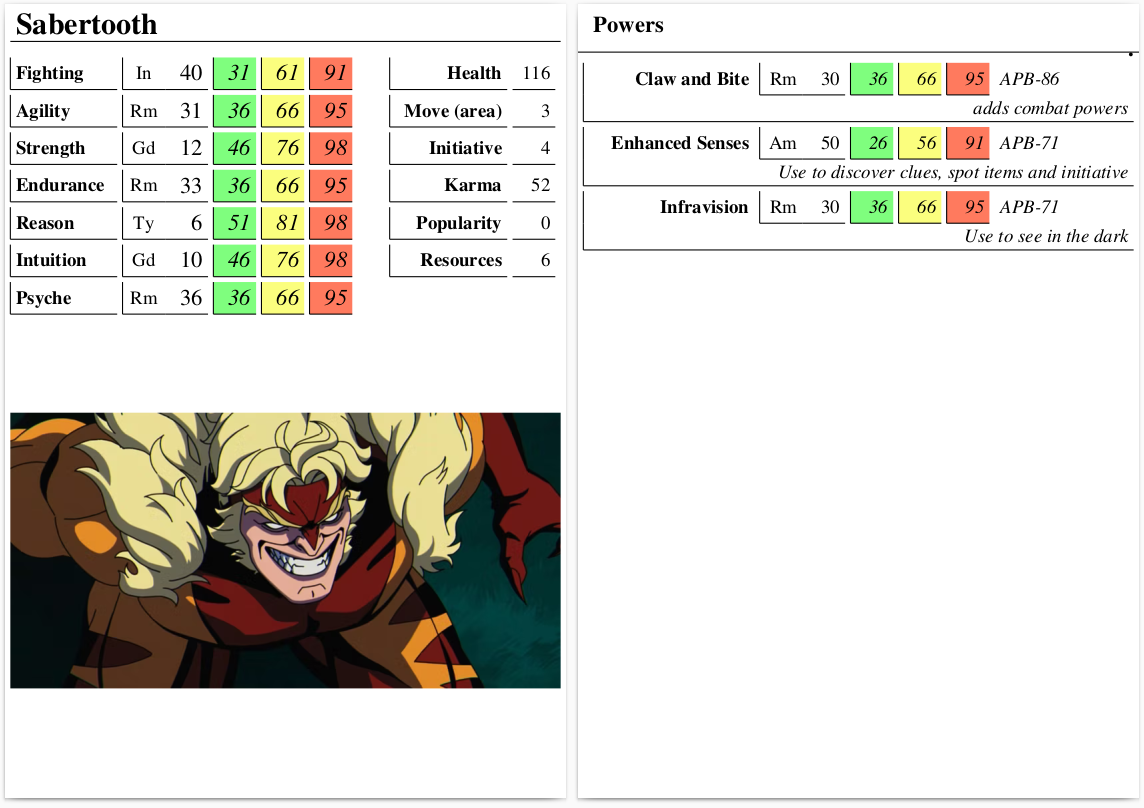
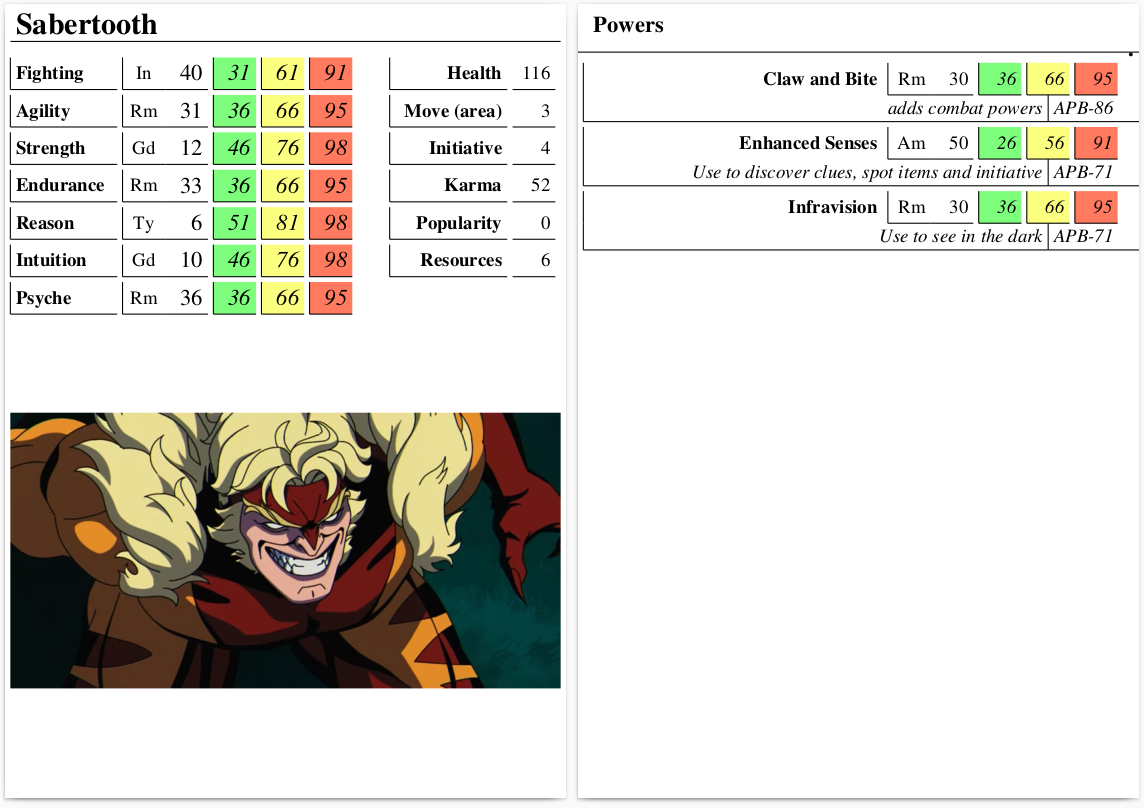
refactor(powers) and added cyclops

Changed region(s): [[0.5201, 0.0619, 0.979, 0.3094]]

diff --git a/display.go b/display.go
@@ -1,9 +1,12 @@
 package characters
 
 import (
+	"encoding/json"
 	"fmt"
 	"log"
 	"strconv"
+
+	"gopkg.in/yaml.v2"
 )
 
 type DisplayCharacter map[string]string
@@ -29,18 +32,50 @@ func (c Character) ToDisplayCharacter() DisplayCharacter {
 
 func (c Character) addPowersToDisplay(dc DisplayCharacter) {
 	for i, p := range c.Powers {
+
+		b, _ := json.Marshal(p)
+		log.Printf("Displaying power %s", b)
+
 		name := string(p.EntryName)
 		if p.Name != "" {
 			name = p.Name
 		}
 		baseKey := fmt.Sprintf("powers.%d", i)
 		dc[baseKey+".name"] = name
-		dc[baseKey+".rank.value"] = strconv.Itoa(p.Rank.Value())
+		v := strconv.Itoa(p.Rank.Value())
+		abv := string(p.Rank.Abbreviation())
+		switch v {
+		case "1000":
+			abv = "Cl"
+			v = "1k"
+		case "2000":
+			abv = "Cl"
+			v = "2k"
+		case "3000":
+			abv = "Cl"
+			v = "3k"
+		}
 		dc[baseKey+".rank.name"] = string(p.Rank.Name())
-		dc[baseKey+".rank.abvr"] = string(p.Rank.Abbreviation())
+		dc[baseKey+".rank.value"] = v
+		dc[baseKey+".rank.abvr"] = abv
 		dc[baseKey+".rank.green"] = strconv.Itoa(p.Rank.Entry().Green)
 		dc[baseKey+".rank.yellow"] = strconv.Itoa(p.Rank.Entry().Yellow)
 		dc[baseKey+".rank.red"] = strconv.Itoa(p.Rank.Entry().Red)
+
+		if true {
+			keys := []string{
+				baseKey + ".name",
+				baseKey + ".rank.value",
+				baseKey + ".rank.name",
+				baseKey + ".rank.abvr",
+				baseKey + ".rank.green",
+				baseKey + ".rank.yellow",
+				baseKey + ".rank.red",
+			}
+			for _, k := range keys {
+				log.Printf("power %s : %s\n", k, dc[k])
+			}
+		}
 
 		if pe, ok := PowerEntries[p.EntryName]; ok {
 			dc[baseKey+".entry.name"] = string(pe.Name)
@@ -48,6 +83,8 @@ func (c Character) addPowersToDisplay(dc DisplayCharacter) {
 			dc[baseKey+".entry.desc"] = string(pe.Description)
 		}
 	}
+	b, _ := yaml.Marshal(dc)
+	fmt.Println(string(b))
 }
 
 func (c Character) addAttributesToDisplay(dc DisplayCharacter) {

diff --git a/print_pdf_a6.go b/print_pdf_a6.go
@@ -85,7 +85,7 @@ func a6LayoutAddPowers(ch Character) (out layout) {
 
 	baseY += incY + 3
 	fontSize -= 2
-	w += 16
+	w += 40
 	// powers.0.entry.desc: adds combat powers
 	// powers.0.entry.name: Body Alterations - Offensive
 	// powers.0.entry.ref: APB-86
@@ -101,7 +101,7 @@ func a6LayoutAddPowers(ch Character) (out layout) {
 	y := baseY
 	for i := range ch.Powers {
 		if i > 0 {
-			y += 6
+			y += 9
 		}
 		c = &cell{
 			x: baseX, y: y, w: w, h: h,
@@ -145,26 +145,27 @@ func a6LayoutAddPowers(ch Character) (out layout) {
 		}
 		page[layoutKey(baseKey+"rank.red")] = c
 
-		c = &cell{
-			x: baseX + w + 5*(cellWidth+1), y: y, w: w, h: h,
-			align: "LM", border: "", fontFamily: a6LayoutFont,
-			fontSize: fontSize, fontWeight: "I", fillColor: col,
-		}
-		page[layoutKey(baseKey+"entry.ref")] = c
+		// c = &cell{
+		// 	x: baseX + w + 5*(cellWidth+1), y: y, w: w, h: h,
+		// 	align: "LM", border: "", fontFamily: a6LayoutFont,
+		// 	fontSize: fontSize, fontWeight: "I", fillColor: col,
+		// }
+		// page[layoutKey(baseKey+"entry.ref")] = c
 
-		c = &cell{
-			x: baseX + w + 5*(cellWidth+1), y: y, w: w, h: h,
-			align: "LM", border: "", fontFamily: a6LayoutFont,
-			fontSize: fontSize, fontWeight: "I", fillColor: col,
-		}
-		page[layoutKey(baseKey+"entry.ref")] = c
 		y += incY - 3
 		c = &cell{
-			x: 1, y: y, w: 103, h: 5,
+			x: 1, y: y, w: 87, h: 5,
 			align: "RM", border: "BL", fontFamily: a6LayoutFont,
 			fontSize: fontSize, fontWeight: "I", fillColor: col,
 		}
 		page[layoutKey(baseKey+"entry.desc")] = c
+
+		c = &cell{
+			x: 88, y: y, w: w, h: 5,
+			align: "LM", border: "LB", fontFamily: a6LayoutFont,
+			fontSize: fontSize, fontWeight: "I", fillColor: col,
+		}
+		page[layoutKey(baseKey+"entry.ref")] = c
 		// if i == 1 {
 		// 	page = layoutPage{}
 		// 	out = append(out, page)

diff --git a/rank.go b/rank.go
@@ -57,9 +57,9 @@ var (
 	ShiftXRank     = RankEntry{Name: "Shift X", Abbreviation: "X", Min: 126, Max: 175, Avg: 150, Green: 11, Yellow: 41, Red: 81}
 	ShiftYRank     = RankEntry{Name: "Shift Y", Abbreviation: "Y", Min: 176, Max: 350, Avg: 200, Green: 7, Yellow: 41, Red: 81}
 	ShiftZRank     = RankEntry{Name: "Shift Z", Abbreviation: "Z", Min: 351, Max: 999, Avg: 500, Green: 4, Yellow: 36, Red: 76}
-	Class1000Rank  = RankEntry{Name: "Class 1000", Abbreviation: "1000", Min: 1000, Max: 1000, Avg: 1000, Green: 2, Yellow: 36, Red: 76}
-	Class3000Rank  = RankEntry{Name: "Class 3000", Abbreviation: "3000", Min: 3000, Max: 3000, Avg: 3000, Green: 2, Yellow: 31, Red: 71}
-	Class5000Rank  = RankEntry{Name: "Class 5000", Abbreviation: "5000", Min: 5000, Max: 5000, Avg: 5000, Green: 2, Yellow: 26, Red: 66}
+	Class1000Rank  = RankEntry{Name: "Class 1000", Abbreviation: "C1k", Min: 1000, Max: 1000, Avg: 1000, Green: 2, Yellow: 36, Red: 76}
+	Class3000Rank  = RankEntry{Name: "Class 3000", Abbreviation: "C3k", Min: 3000, Max: 3000, Avg: 3000, Green: 2, Yellow: 31, Red: 71}
+	Class5000Rank  = RankEntry{Name: "Class 5000", Abbreviation: "C5k", Min: 5000, Max: 5000, Avg: 5000, Green: 2, Yellow: 26, Red: 66}
 	BeyondRank     = RankEntry{Name: "Beyond", Abbreviation: "B", Min: -1, Max: -1, Avg: -1, Green: 2, Yellow: 21, Red: 61}
 )
 

diff --git a/power.go b/power.go
@@ -12,15 +12,18 @@ type PowerEntry struct {
 }
 
 type Power struct {
-	Name      string    `json:"name,omitempty"`
-	EntryName PowerName `json:"power_name,omitempty"`
-	Rank      Rank      `json:"rank,omitempty"`
+	Name      string    `yaml:"name,omitempty"`
+	EntryName PowerName `yaml:"entryname,omitempty"`
+	Rank      Rank      `yaml:"rank,omitempty"`
 }
 
 var PowerEntries = map[PowerName]PowerEntry{
 	"Infravision":                  {Name: "Infravision", Description: "Use to see in the dark", Reference: "APB-71"},
 	"Enhanced Senses":              {Name: "Enhanced Senses", Description: "Use to discover clues, spot items and initiative", Reference: "APB-71", IsInitiative: true},
 	"Body Alterations - Offensive": {Name: "Body Alterations - Offensive", Description: "adds combat powers", Reference: "APB-86"},
+	"Optic Blasts - cyclops":       {Name: "Optic Blasts", Description: "Ruby beams with a range of 1 area", Reference: "AJB-26"},
+	"Visored Blasts - cyclops":     {Name: "Visored Blasts", Description: "A specially-constructed visor grants a range of 3 areas", Reference: "AJB-26"},
+	"Invulnerability":              {Name: "Invulnerability", Description: "Totally unaffected by the listed attack form", Reference: "APB-73"},
 }
 
 type BookRef struct {
